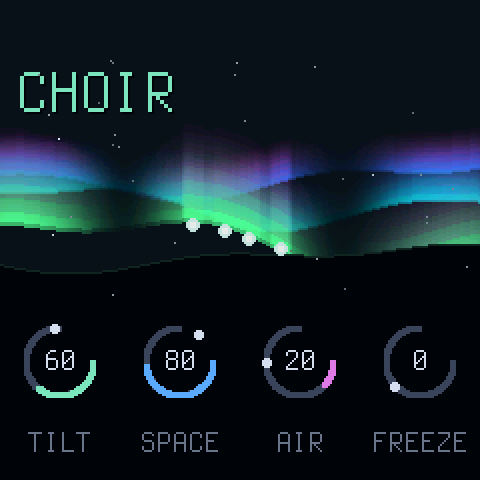
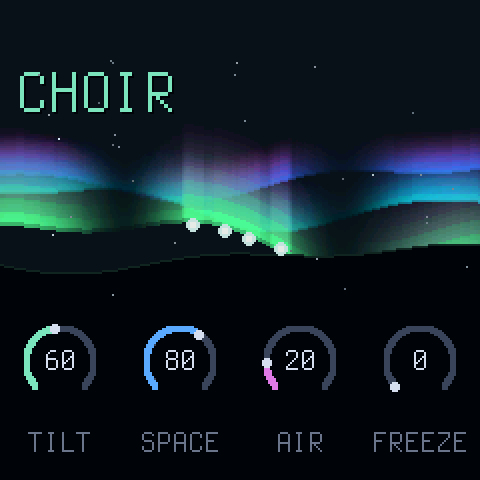
0.4.1: the first release. The dials' fill drawn the right way round (a precedence slip in the arc), the hub manifest, a 240 x 240 screenshot

diff --git a/firmware/src/aurora.c b/firmware/src/aurora.c
@@ -680,7 +680,7 @@ static void cv_arc(int32_t cx, int32_t cy, int32_t r, uint32_t from, uint32_t to
 {
     int32_t i, n = 2 + (int32_t)(((to - from) >> 24) * r >> 5);   /* a step every couple of pixels */
     for (i = 0; i <= n; i++) {
-        uint32_t ph = from + ((to - from) >> 8) / (uint32_t)n * (uint32_t)i << 8;
+        uint32_t ph = from + ((((to - from) >> 8) / (uint32_t)n) * (uint32_t)i << 8);   /* (the parentheses matter: + binds tighter than <<) */
         cv_dot(cx + ((sine_i(ph + 0x40000000u) * r) >> 15), cy + ((sine_i(ph) * r) >> 15), 1, c);
     }
 }

diff --git a/RELEASE_NOTES.md b/RELEASE_NOTES.md
@@ -1,4 +1,4 @@
-# AURORA 0.4.0
+# AURORA 0.4.1
 
 The first release. An ambient instrument for the M-VAVE FM-1: a sound module for a dawless rig, built for playing
 rather than sequencing.
